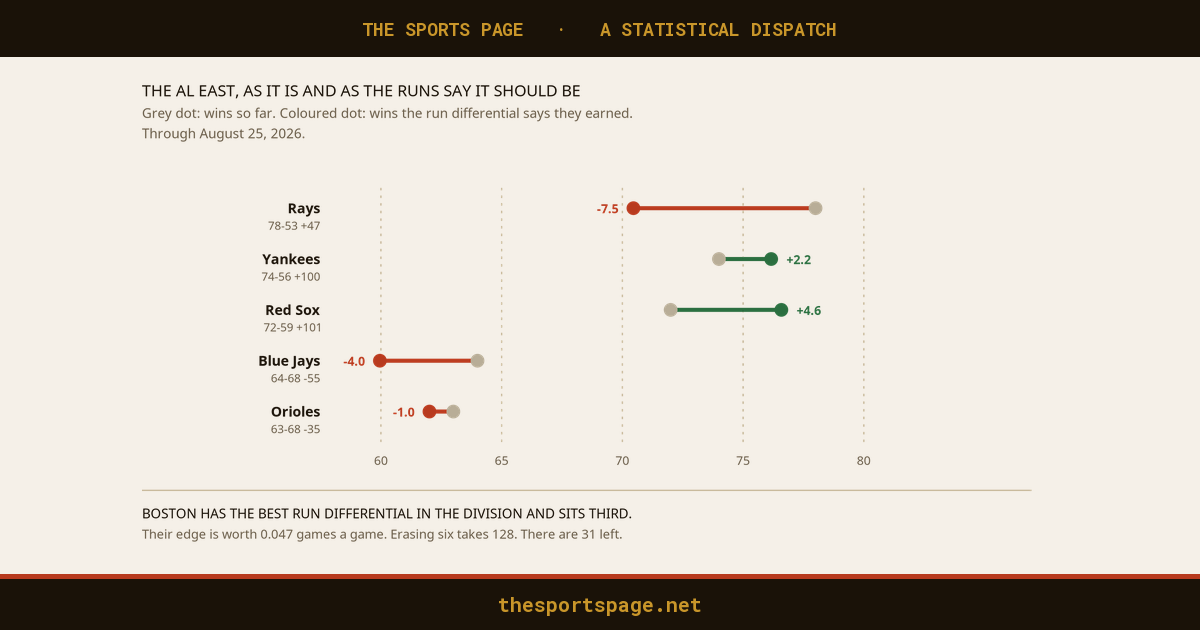
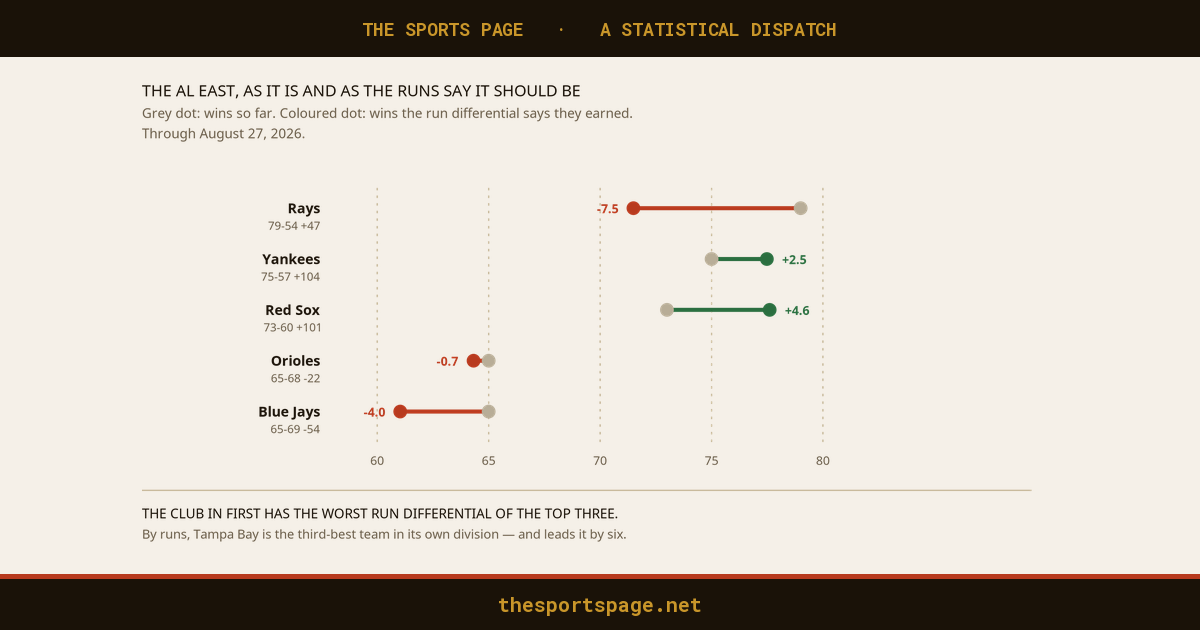
Amend #141 before it publishes: the headline had gone stale
Written Aug 25 on 'Boston has the best run differential in the AL East.' By
Aug 27 New York had passed them, +104 to +101, so the headline would have been
false on the morning it went out. Caught on a routine refresh the day before.

Rebuilt on the claim that does not move: Tampa Bay leads by six while sitting
third in its own division by runs scored. The Rays are +47 against +104 and
+101 for the two clubs chasing them -- a gap of more than fifty runs, not a
figure that flips overnight. Sorting the division by earned record inverts it
completely: Boston, New York, Tampa Bay.

All numbers refreshed to Aug 27: Rays 79-54 (pyth 71-62, +7.5 luck), Yankees
75-57 (77-55), Red Sox 73-60 (78-55). Boston's edge is now .046 games per game,
so erasing six takes 131 games against 29 remaining. Re-simulated over the 426
games left: Boston wins the division 4.2%, Tampa Bay 72.1%, New York 23.8%.
Playoff odds unchanged in substance -- all three are in.

The notes box states the correction rather than hiding it, and says why the new
framing is the more durable one.

Figure and OG card regenerated from Aug 27 data.

Claude-Session: https://claude.ai/code/session_01WczVVBmSnvzK9k8uPdKrCR

diff --git a/queue/141-al-east-luck.html b/queue/141-al-east-luck.html
@@ -1,6 +1,6 @@
 <!-- PUBLISH-META
 topic: MLB
-tags: MLB:mlb, Red Sox, Rays, Run Differential, Pennant Race
+tags: MLB:mlb, Rays, Red Sox, Run Differential, Pennant Race
 -->
 <!DOCTYPE html>
 <html lang="en">
@@ -50,8 +50,8 @@ hr{border:none;border-top:1px solid var(--div);margin:1.5rem 0}
 .cc[data-preview]:hover::after{left:0;transform:none}
 .footer{display:flex;justify-content:space-between;flex-wrap:wrap;gap:.5rem;font-family:'Roboto Mono',monospace;font-size:.62rem;color:var(--muted);letter-spacing:.08em;border-top:3px double var(--ink);margin-top:2rem;padding-top:.8rem}
 </style>
-<meta property="og:title" content="Boston Has the Best Run Differential in the AL East. They Have a 4.5% Chance of Winning It.">
-<meta property="og:description" content="The Red Sox have outscored opponents by more than anyone in their division and sit third. Being better is a rate. A deficit is a fact.">
+<meta property="og:title" content="Tampa Bay Leads the AL East by Six. By Runs Scored, They Are Third.">
+<meta property="og:description" content="The Rays have outscored opponents by 47 runs. Both clubs chasing them are near +100. The first-place team is the third-best team in its own division -- and it will probably still win it.">
 <meta property="og:url" content="https://thesportspage.net/published/141-al-east-luck.html">
 <meta property="og:type" content="article">
 <meta property="og:site_name" content="The Sports Page">
@@ -59,8 +59,8 @@ hr{border:none;border-top:1px solid var(--div);margin:1.5rem 0}
 <meta property="og:image:width" content="1200">
 <meta property="og:image:height" content="630">
 <meta name="twitter:card" content="summary_large_image">
-<meta name="twitter:title" content="The Best Team in the AL East Is in Third">
-<meta name="twitter:description" content="Boston's edge is worth 0.047 games a game. Erasing six takes 128 games. There are 31 left. That is the whole story.">
+<meta name="twitter:title" content="First Place, Third-Best Team">
+<meta name="twitter:description" content="Boston is better and six games back. Their edge is worth 0.046 games a game. Erasing six takes 131. There are 29 left.">
 <meta name="twitter:image" content="https://thesportspage.net/assets/og/141-al-east-luck.png">
 <script data-goatcounter="https://thesportspage.goatcounter.com/count" async src="//gc.zgo.at/count.js"></script>
 
@@ -76,19 +76,19 @@ hr{border:none;border-top:1px solid var(--div);margin:1.5rem 0}
 <nav style="max-width:820px;margin:.4rem auto 0;font-family:'Roboto Mono',monospace;font-size:.7rem;letter-spacing:.08em"><a href="https://thesportspage.net/" style="color:var(--rust);text-decoration:none;border-bottom:1px solid rgba(184,58,30,.3)" target="_blank" rel="noopener">&larr; Back to Archive</a></nav>
 <div id="main-content" class="paper">
 
-  <h2 class="hed">Boston Has the Best Run Differential in the AL East. <em>They Have a 4.5% Chance of Winning It.</em></h2>
-  <p class="deck">The Red Sox have outscored their opponents by <strong>101</strong> runs, more than anyone else in the division, and they are sitting third. Being better turns out to be worth about a twentieth of a game per game &mdash; and there are 31 left.</p>
+  <h2 class="hed">Tampa Bay Leads the AL East by Six. <em>By Runs Scored, They Are Third.</em></h2>
+  <p class="deck">The Rays have outscored their opponents by <strong>47</strong> runs. Both clubs chasing them sit near <strong>+100</strong>. The team in first is the third-best team in its own division &mdash; and it is going to win the thing anyway.</p>
   <p class="byline">The Sports Page &middot; The Professor &middot; a deficit is a fact, superiority is a rate</p>
 
   <div class="stat-row">
-    <div class="sc"><div class="v good">+101</div><div class="l">Boston&rsquo;s run differential &mdash; best in the division</div></div>
-    <div class="sc"><div class="v bad">3rd</div><div class="l">Where that has them in the standings</div></div>
-    <div class="sc"><div class="v now">128</div><div class="l">Games their edge needs to erase six</div></div>
+    <div class="sc"><div class="v bad">+7.5</div><div class="l">Games Tampa Bay sits above what its runs earned</div></div>
+    <div class="sc"><div class="v now">3rd</div><div class="l">Where those runs place them in their own division</div></div>
+    <div class="sc"><div class="v good">131</div><div class="l">Games Boston&rsquo;s edge would need to erase six</div></div>
   </div>
 
   <p><strong>The question:</strong> how can the best team in a division have almost no chance of winning it?</p>
 
-  <p><strong>The answer: because a deficit is a fact and superiority is only a rate.</strong> Boston is genuinely better than Tampa Bay. That edge pays out at <strong>0.047</strong> games per game, and six games of arrears takes 128 games to clear.</p>
+  <p><strong>The answer: because a deficit is a fact and superiority is only a rate.</strong> Boston is genuinely the better club. That edge pays out at <strong>0.046</strong> games per game, and six games of arrears takes 131 games to clear.</p>
 
   <p><strong>Here is the surprising part.</strong> We read a standings table as a ranking of how good teams are. By late August it is mostly a record of what already happened. And what already happened does not change, however well you play from here.</p>
 
@@ -96,24 +96,24 @@ hr{border:none;border-top:1px solid var(--div);margin:1.5rem 0}
 
   <h3 class="sh">Three teams, two completely different stories</h3>
 
-  <p>Tampa Bay leads at 78&ndash;53. New York is 74&ndash;56. Boston is 72&ndash;59. That is the table, and it looks orderly.</p>
+  <p>Tampa Bay leads at 79&ndash;54. New York is 75&ndash;57. Boston is 73&ndash;60. That is the table, and it looks orderly.</p>
 
-  <p>Look at the scoreboards instead. The Rays have outscored people by <strong>47</strong> runs; the Yankees by <strong>100</strong>; the Red Sox by <strong>101</strong>.</p>
+  <p>Look at the scoreboards instead. The Rays have outscored people by <strong>47</strong> runs; the Yankees by <strong>104</strong>; the Red Sox by <strong>101</strong>.</p>
 
-  <p>The club in first has the worst run differential of the three by a distance. It is not close, and it is not a rounding error.</p>
+  <p>The club in first has the worst run differential of the three, and it is behind both of them by more than fifty runs. That is not a rounding error.</p>
 
   <div class="chart-wrap">
     <div class="chart-label">Figure 1 &middot; Where they sit, and where the runs say they belong</div>
-<svg class="chart" viewBox="0 0 720 376" role="img" aria-label="Five rows, one per AL East club. Each has a grey dot for wins so far and a coloured dot for the wins its run differential says it earned, joined by a bar. Tampa Bay leads the division but its coloured dot sits well to the left, 7.5 wins below its actual total. Boston and the Yankees both have coloured dots to the right of their grey ones. Boston has the best run differential in the division and sits third."><text x="0" y="16" font-family="'Roboto Mono',monospace" font-size="12.5" fill="#1a1208">THE AL EAST, AS IT IS AND AS THE RUNS SAY IT SHOULD BE</text><text x="0" y="33" font-family="'Roboto Mono',monospace" font-size="10.5" fill="#6b5e4a">Grey dot: wins so far. Coloured dot: wins the run differential says they earned.</text><text x="0" y="49" font-family="'Roboto Mono',monospace" font-size="10.5" fill="#6b5e4a">Through August 25, 2026.</text><line x1="188.0" y1="88" x2="188.0" y2="290" stroke="#c8b99a" stroke-width="1" stroke-dasharray="2 4"/><text x="188.0" y="306" text-anchor="middle" font-family="'Roboto Mono',monospace" font-size="9.5" fill="#6b5e4a">60</text><line x1="283.0" y1="88" x2="283.0" y2="290" stroke="#c8b99a" stroke-width="1" stroke-dasharray="2 4"/><text x="283.0" y="306" text-anchor="middle" font-family="'Roboto Mono',monospace" font-size="9.5" fill="#6b5e4a">65</text><line x1="378.0" y1="88" x2="378.0" y2="290" stroke="#c8b99a" stroke-width="1" stroke-dasharray="2 4"/><text x="378.0" y="306" text-anchor="middle" font-family="'Roboto Mono',monospace" font-size="9.5" fill="#6b5e4a">70</text><line x1="473.0" y1="88" x2="473.0" y2="290" stroke="#c8b99a" stroke-width="1" stroke-dasharray="2 4"/><text x="473.0" y="306" text-anchor="middle" font-family="'Roboto Mono',monospace" font-size="9.5" fill="#6b5e4a">75</text><line x1="568.0" y1="88" x2="568.0" y2="290" stroke="#c8b99a" stroke-width="1" stroke-dasharray="2 4"/><text x="568.0" y="306" text-anchor="middle" font-family="'Roboto Mono',monospace" font-size="9.5" fill="#6b5e4a">80</text><text x="140" y="108" text-anchor="end" font-family="'Roboto Mono',monospace" font-size="11" font-weight="700" fill="#1a1208">Rays</text><text x="140" y="121" text-anchor="end" font-family="'Roboto Mono',monospace" font-size="9" fill="#6b5e4a">78-53  +47</text><line x1="530.0" y1="104.0" x2="386.7" y2="104.0" stroke="#b83a1e" stroke-width="3.2"/><circle cx="530.0" cy="104.0" r="5.4" fill="#b8ad97"/><circle cx="386.7" cy="104.0" r="5.4" fill="#b83a1e"/><text x="374.7" y="108" text-anchor="end" font-family="'Roboto Mono',monospace" font-size="9.6" font-weight="700" fill="#b83a1e">-7.5</text><text x="140" y="148" text-anchor="end" font-family="'Roboto Mono',monospace" font-size="11" font-weight="700" fill="#1a1208">Yankees</text><text x="140" y="161" text-anchor="end" font-family="'Roboto Mono',monospace" font-size="9" fill="#6b5e4a">74-56  +100</text><line x1="454.0" y1="144.0" x2="495.1" y2="144.0" stroke="#2a6e3f" stroke-width="3.2"/><circle cx="454.0" cy="144.0" r="5.4" fill="#b8ad97"/><circle cx="495.1" cy="144.0" r="5.4" fill="#2a6e3f"/><text x="507.1" y="148" text-anchor="start" font-family="'Roboto Mono',monospace" font-size="9.6" font-weight="700" fill="#2a6e3f">+2.2</text><text x="140" y="188" text-anchor="end" font-family="'Roboto Mono',monospace" font-size="11" font-weight="700" fill="#1a1208">Red Sox</text><text x="140" y="201" text-anchor="end" font-family="'Roboto Mono',monospace" font-size="9" fill="#6b5e4a">72-59  +101</text><line x1="416.0" y1="184.0" x2="503.1" y2="184.0" stroke="#2a6e3f" stroke-width="3.2"/><circle cx="416.0" cy="184.0" r="5.4" fill="#b8ad97"/><circle cx="503.1" cy="184.0" r="5.4" fill="#2a6e3f"/><text x="515.1" y="188" text-anchor="start" font-family="'Roboto Mono',monospace" font-size="9.6" font-weight="700" fill="#2a6e3f">+4.6</text><text x="140" y="228" text-anchor="end" font-family="'Roboto Mono',monospace" font-size="11" font-weight="700" fill="#1a1208">Blue Jays</text><text x="140" y="241" text-anchor="end" font-family="'Roboto Mono',monospace" font-size="9" fill="#6b5e4a">64-68  -55</text><line x1="264.0" y1="224.0" x2="187.2" y2="224.0" stroke="#b83a1e" stroke-width="3.2"/><circle cx="264.0" cy="224.0" r="5.4" fill="#b8ad97"/><circle cx="187.2" cy="224.0" r="5.4" fill="#b83a1e"/><text x="175.2" y="228" text-anchor="end" font-family="'Roboto Mono',monospace" font-size="9.6" font-weight="700" fill="#b83a1e">-4.0</text><text x="140" y="268" text-anchor="end" font-family="'Roboto Mono',monospace" font-size="11" font-weight="700" fill="#1a1208">Orioles</text><text x="140" y="281" text-anchor="end" font-family="'Roboto Mono',monospace" font-size="9" fill="#6b5e4a">63-68  -35</text><line x1="245.0" y1="264.0" x2="226.2" y2="264.0" stroke="#b83a1e" stroke-width="3.2"/><circle cx="245.0" cy="264.0" r="5.4" fill="#b8ad97"/><circle cx="226.2" cy="264.0" r="5.4" fill="#b83a1e"/><text x="214.2" y="268" text-anchor="end" font-family="'Roboto Mono',monospace" font-size="9.6" font-weight="700" fill="#b83a1e">-1.0</text><line x1="0" y1="326" x2="700" y2="326" stroke="#c8b99a" stroke-width="1"/><text x="0" y="348" font-family="'Roboto Mono',monospace" font-size="10.5" fill="#1a1208">BOSTON HAS THE BEST RUN DIFFERENTIAL IN THE DIVISION AND SITS THIRD.</text><text x="0" y="364" font-family="'Roboto Mono',monospace" font-size="10" fill="#6b5e4a">Their edge is worth 0.047 games a game. Erasing six takes 128. There are 31 left.</text></svg>
+<svg class="chart" viewBox="0 0 720 376" role="img" aria-label="Five rows, one per AL East club. Each has a grey dot for wins so far and a coloured dot for the wins its run differential says it earned. Tampa Bay leads the division but its coloured dot sits 7.5 wins to the left of its grey one, and lands behind both the Yankees and Boston. Boston has the furthest-right coloured dot in the division while sitting third in the actual standings."><text x="0" y="16" font-family="'Roboto Mono',monospace" font-size="12.5" fill="#1a1208">THE AL EAST, AS IT IS AND AS THE RUNS SAY IT SHOULD BE</text><text x="0" y="33" font-family="'Roboto Mono',monospace" font-size="10.5" fill="#6b5e4a">Grey dot: wins so far. Coloured dot: wins the run differential says they earned.</text><text x="0" y="49" font-family="'Roboto Mono',monospace" font-size="10.5" fill="#6b5e4a">Through August 27, 2026.</text><line x1="185.1" y1="88" x2="185.1" y2="290" stroke="#c8b99a" stroke-width="1" stroke-dasharray="2 4"/><text x="185.1" y="306" text-anchor="middle" font-family="'Roboto Mono',monospace" font-size="9.5" fill="#6b5e4a">60</text><line x1="272.8" y1="88" x2="272.8" y2="290" stroke="#c8b99a" stroke-width="1" stroke-dasharray="2 4"/><text x="272.8" y="306" text-anchor="middle" font-family="'Roboto Mono',monospace" font-size="9.5" fill="#6b5e4a">65</text><line x1="360.5" y1="88" x2="360.5" y2="290" stroke="#c8b99a" stroke-width="1" stroke-dasharray="2 4"/><text x="360.5" y="306" text-anchor="middle" font-family="'Roboto Mono',monospace" font-size="9.5" fill="#6b5e4a">70</text><line x1="448.2" y1="88" x2="448.2" y2="290" stroke="#c8b99a" stroke-width="1" stroke-dasharray="2 4"/><text x="448.2" y="306" text-anchor="middle" font-family="'Roboto Mono',monospace" font-size="9.5" fill="#6b5e4a">75</text><line x1="535.8" y1="88" x2="535.8" y2="290" stroke="#c8b99a" stroke-width="1" stroke-dasharray="2 4"/><text x="535.8" y="306" text-anchor="middle" font-family="'Roboto Mono',monospace" font-size="9.5" fill="#6b5e4a">80</text><text x="140" y="108" text-anchor="end" font-family="'Roboto Mono',monospace" font-size="11" font-weight="700" fill="#1a1208">Rays</text><text x="140" y="121" text-anchor="end" font-family="'Roboto Mono',monospace" font-size="9" fill="#6b5e4a">79-54  +47</text><line x1="518.3" y1="104.0" x2="386.7" y2="104.0" stroke="#b83a1e" stroke-width="3.2"/><circle cx="518.3" cy="104.0" r="5.4" fill="#b8ad97"/><circle cx="386.7" cy="104.0" r="5.4" fill="#b83a1e"/><text x="374.7" y="108" text-anchor="end" font-family="'Roboto Mono',monospace" font-size="9.6" font-weight="700" fill="#b83a1e">-7.5</text><text x="140" y="148" text-anchor="end" font-family="'Roboto Mono',monospace" font-size="11" font-weight="700" fill="#1a1208">Yankees</text><text x="140" y="161" text-anchor="end" font-family="'Roboto Mono',monospace" font-size="9" fill="#6b5e4a">75-57  +104</text><line x1="448.2" y1="144.0" x2="491.7" y2="144.0" stroke="#2a6e3f" stroke-width="3.2"/><circle cx="448.2" cy="144.0" r="5.4" fill="#b8ad97"/><circle cx="491.7" cy="144.0" r="5.4" fill="#2a6e3f"/><text x="503.7" y="148" text-anchor="start" font-family="'Roboto Mono',monospace" font-size="9.6" font-weight="700" fill="#2a6e3f">+2.5</text><text x="140" y="188" text-anchor="end" font-family="'Roboto Mono',monospace" font-size="11" font-weight="700" fill="#1a1208">Red Sox</text><text x="140" y="201" text-anchor="end" font-family="'Roboto Mono',monospace" font-size="9" fill="#6b5e4a">73-60  +101</text><line x1="413.1" y1="184.0" x2="493.9" y2="184.0" stroke="#2a6e3f" stroke-width="3.2"/><circle cx="413.1" cy="184.0" r="5.4" fill="#b8ad97"/><circle cx="493.9" cy="184.0" r="5.4" fill="#2a6e3f"/><text x="505.9" y="188" text-anchor="start" font-family="'Roboto Mono',monospace" font-size="9.6" font-weight="700" fill="#2a6e3f">+4.6</text><text x="140" y="228" text-anchor="end" font-family="'Roboto Mono',monospace" font-size="11" font-weight="700" fill="#1a1208">Orioles</text><text x="140" y="241" text-anchor="end" font-family="'Roboto Mono',monospace" font-size="9" fill="#6b5e4a">65-68  -22</text><line x1="272.8" y1="224.0" x2="260.9" y2="224.0" stroke="#b83a1e" stroke-width="3.2"/><circle cx="272.8" cy="224.0" r="5.4" fill="#b8ad97"/><circle cx="260.9" cy="224.0" r="5.4" fill="#b83a1e"/><text x="248.9" y="228" text-anchor="end" font-family="'Roboto Mono',monospace" font-size="9.6" font-weight="700" fill="#b83a1e">-0.7</text><text x="140" y="268" text-anchor="end" font-family="'Roboto Mono',monospace" font-size="11" font-weight="700" fill="#1a1208">Blue Jays</text><text x="140" y="281" text-anchor="end" font-family="'Roboto Mono',monospace" font-size="9" fill="#6b5e4a">65-69  -54</text><line x1="272.8" y1="264.0" x2="203.2" y2="264.0" stroke="#b83a1e" stroke-width="3.2"/><circle cx="272.8" cy="264.0" r="5.4" fill="#b8ad97"/><circle cx="203.2" cy="264.0" r="5.4" fill="#b83a1e"/><text x="191.2" y="268" text-anchor="end" font-family="'Roboto Mono',monospace" font-size="9.6" font-weight="700" fill="#b83a1e">-4.0</text><line x1="0" y1="326" x2="700" y2="326" stroke="#c8b99a" stroke-width="1"/><text x="0" y="348" font-family="'Roboto Mono',monospace" font-size="10.5" fill="#1a1208">THE CLUB IN FIRST HAS THE WORST RUN DIFFERENTIAL OF THE TOP THREE.</text><text x="0" y="364" font-family="'Roboto Mono',monospace" font-size="10" fill="#6b5e4a">By runs, Tampa Bay is the third-best team in its own division &#8212; and leads it by six.</text></svg>
   </div>
 
   <h3 class="sh">Tampa Bay has been winning the games that could go either way</h3>
 
-  <p>Watch the division rearrange itself when we convert those runs into the record each club has earned. The Rays should be about 70&ndash;61. They are 78&ndash;53, which is <strong>seven and a half wins</strong> better than their scoring deserves.</p>
+  <p>Watch the division rearrange itself when we convert those runs into the record each club has earned. The Rays should be about 71&ndash;62. They are 79&ndash;54, which is <strong>seven and a half wins</strong> better than their scoring deserves.</p>
 
-  <p>Boston should be about 77&ndash;54. They are 72&ndash;59, nearly five wins short.</p>
+  <p>Boston should be about 78&ndash;55. They are 73&ndash;60, nearly five wins short. Sort the division by earned record and the order is Boston, New York, Tampa Bay &mdash; exactly upside down.</p>
 
-  <p>That is not an accusation. Close games have to be won by somebody and Tampa Bay has won an unusual share of them. But close games are the least repeatable thing in baseball, which is why the runs are the better guide to what happens next.</p>
+  <p>That is not an accusation. Close games have to be won by somebody, and Tampa Bay has won an unusual share of them. But close games are the least repeatable thing in baseball, which is why the runs are the better guide to what happens next.</p>
 
   <div class="pull">
     <p>Being better is a rate. Being behind is a fact. Rates need time, and time is the thing running out.</p>
@@ -124,17 +124,17 @@ hr{border:none;border-top:1px solid var(--div);margin:1.5rem 0}
 
   <p>The arithmetic is brutally simple, so let us do it in public.</p>
 
-  <p>By runs, Boston plays at about a .585 clip and Tampa Bay at about .538. Line them up and Boston gains <strong>0.047</strong> of a game on every game played &mdash; roughly one game every three weeks.</p>
+  <p>By runs, Boston plays at about a .583 clip and Tampa Bay at about .537. Line them up and Boston gains <strong>0.046</strong> of a game on every game played &mdash; roughly one game every three weeks.</p>
 
-  <p>They are six games behind. At that rate, catching up takes <strong>128 games</strong>. Hold onto that number.</p>
+  <p>They are six games behind. At that rate, catching up takes <strong>131 games</strong>. Hold onto that number.</p>
 
-  <p>The season has <strong>31</strong> left.</p>
+  <p>The season has <strong>29</strong> left.</p>
 
-  <p>So we ran the whole thing out sixty thousand times. Boston wins the division in <strong>4.5%</strong> of them; Tampa Bay takes it 69.8% of the time and New York 25.8%. The best team in the division is a one-in-twenty shot to finish first, and nothing about that is unfair. It is just that superiority has to be paid out in instalments, and the bank is closing.</p>
+  <p>So we ran the whole thing out sixty thousand times. Boston wins the division in <strong>4.2%</strong> of them; Tampa Bay takes it 72.1% of the time and New York 23.8%. The best team in the division is a one-in-twenty shot to finish first, and nothing about that is unfair. Superiority has to be paid out in instalments, and the bank is closing.</p>
 
   <h3 class="sh">The consolation, which is larger than it sounds</h3>
 
-  <p>All three of them are going to October anyway. In our simulated seasons Boston makes the playoffs <strong>99.4%</strong> of the time, and the Yankees and Rays essentially always.</p>
+  <p>All three of them are going to October anyway. In our simulated seasons Boston makes the playoffs <strong>99.3%</strong> of the time, and the Yankees and Rays essentially always.</p>
 
   <p>So this race was never about survival; it is about seeding. Who skips the first round, and who has to play a short series instead. And in a short series, as we have said before, the best measure in baseball picks the winner about 58% of the time.</p>
 
@@ -152,10 +152,11 @@ hr{border:none;border-top:1px solid var(--div);margin:1.5rem 0}
 
   <div class="box" style="background:var(--ink)">
     <h3>Notes &amp; sources</h3>
-    <p style="color:#c8b99a">Standings and results from the MLB Stats API through the morning of August 25, 2026. AL East: Tampa Bay 78&ndash;53 (591 runs scored, 544 allowed), New York 74&ndash;56 (579/479), Boston 72&ndash;59 (593/492), Toronto 64&ndash;68 (521/576), Baltimore 63&ndash;68 (583/618).</p>
-    <p style="color:#c8b99a">Earned records use the Pythagorean expectation with a 1.83 exponent: Tampa Bay 70&ndash;61 against an actual 78&ndash;53, Boston 77&ndash;54 against an actual 72&ndash;59. The rate comparison uses those Pythagorean win percentages, .538 and .585, whose difference of .047 is the expected games gained per game played. Six games divided by .047 gives 128.</p>
-    <p style="color:#c8b99a">Division and playoff odds come from 60,000 simulated seasons over the 456 remaining league games, with team strength a 50/50 blend of actual and Pythagorean winning percentage regressed toward .500 by 69 games, game probabilities by log5 with a .535 home-field adjustment, and ties broken at random rather than by the real tiebreaker rules. Every club&rsquo;s games played plus games remaining was verified to equal 162 first.</p>
-    <p style="color:#c8b99a">One limit. The 128-game figure assumes both clubs keep playing at their season-long rate against average opposition, which no schedule obliges them to do. It is a way of sizing an edge, not a forecast. The simulation, which does use the actual remaining schedule, gives the same verdict by a different road.</p>
+    <p style="color:#c8b99a">Standings and results from the MLB Stats API through the morning of August 27, 2026. AL East: Tampa Bay 79&ndash;54 (591 runs scored, 544 allowed), New York 75&ndash;57 (583/479), Boston 73&ndash;60 (595/494), Baltimore 65&ndash;68, Toronto 65&ndash;69.</p>
+    <p style="color:#c8b99a">Earned records use the Pythagorean expectation with a 1.83 exponent: Tampa Bay 71&ndash;62 against an actual 79&ndash;54, New York 77&ndash;55 against 75&ndash;57, Boston 78&ndash;55 against 73&ndash;60. The rate comparison uses those Pythagorean winning percentages, .537 and .583, whose difference of .046 is the expected games gained per game played. Six divided by .046 gives 131.</p>
+    <p style="color:#c8b99a">Division and playoff odds come from 60,000 simulated seasons over the 426 remaining league games, with team strength a 50/50 blend of actual and Pythagorean winning percentage regressed toward .500 by 69 games, game probabilities by log5 with a .535 home-field adjustment, and ties broken at random rather than by the real tiebreaker rules. Every club&rsquo;s games played plus games remaining was verified to equal 162 first.</p>
+    <p style="color:#c8b99a">Two days earlier this piece said Boston had the division&rsquo;s best run differential. New York has since passed them, +104 to +101, which is why the argument here rests on the gap between the leaders and Tampa Bay rather than on which chaser is fractionally ahead. Numbers this close move daily; the seven-and-a-half-game gap between Tampa Bay&rsquo;s record and its runs does not.</p>
+    <p style="color:#c8b99a">One limit. The 131-game figure assumes both clubs keep playing at their season-long rate against average opposition, which no schedule obliges them to do. It is a way of sizing an edge, not a forecast. The simulation, which does use the actual remaining schedule, reaches the same verdict by a different road.</p>
   </div>
 
   <div class="footer"><span>The Sports Page &middot; Vol. I, No. __</span><span>A deficit is a fact</span><span>TODO_DATE &middot; New York, NY</span></div>
